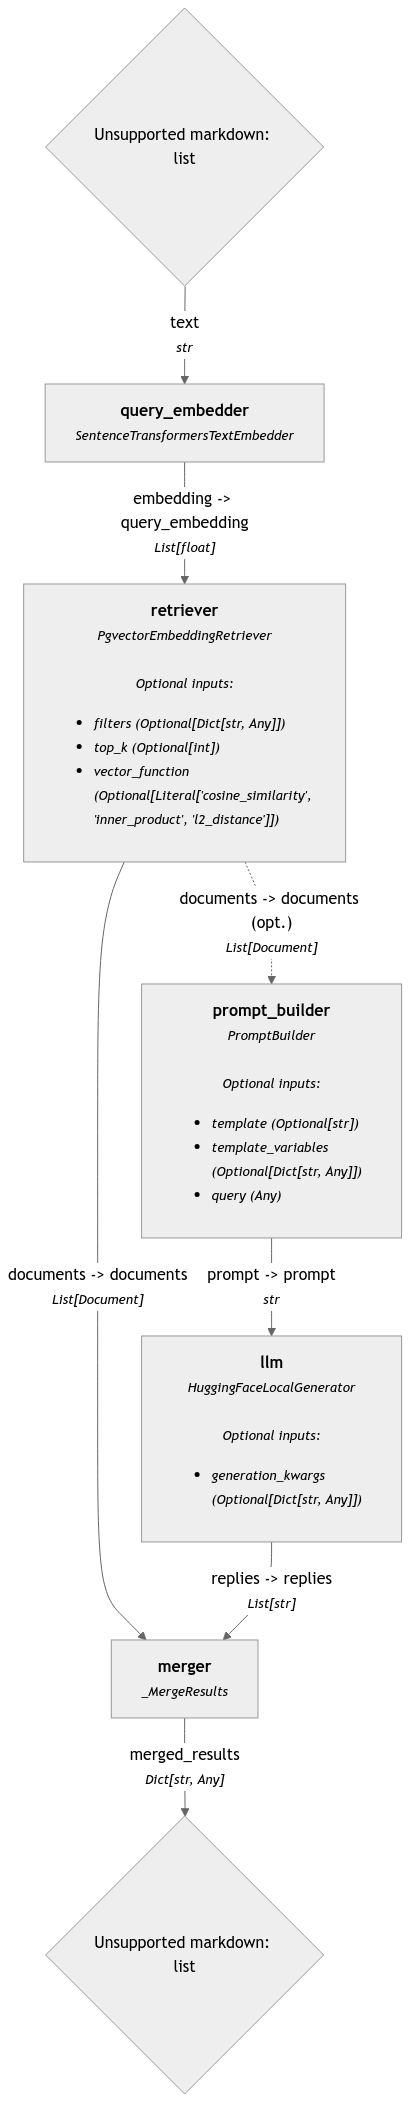
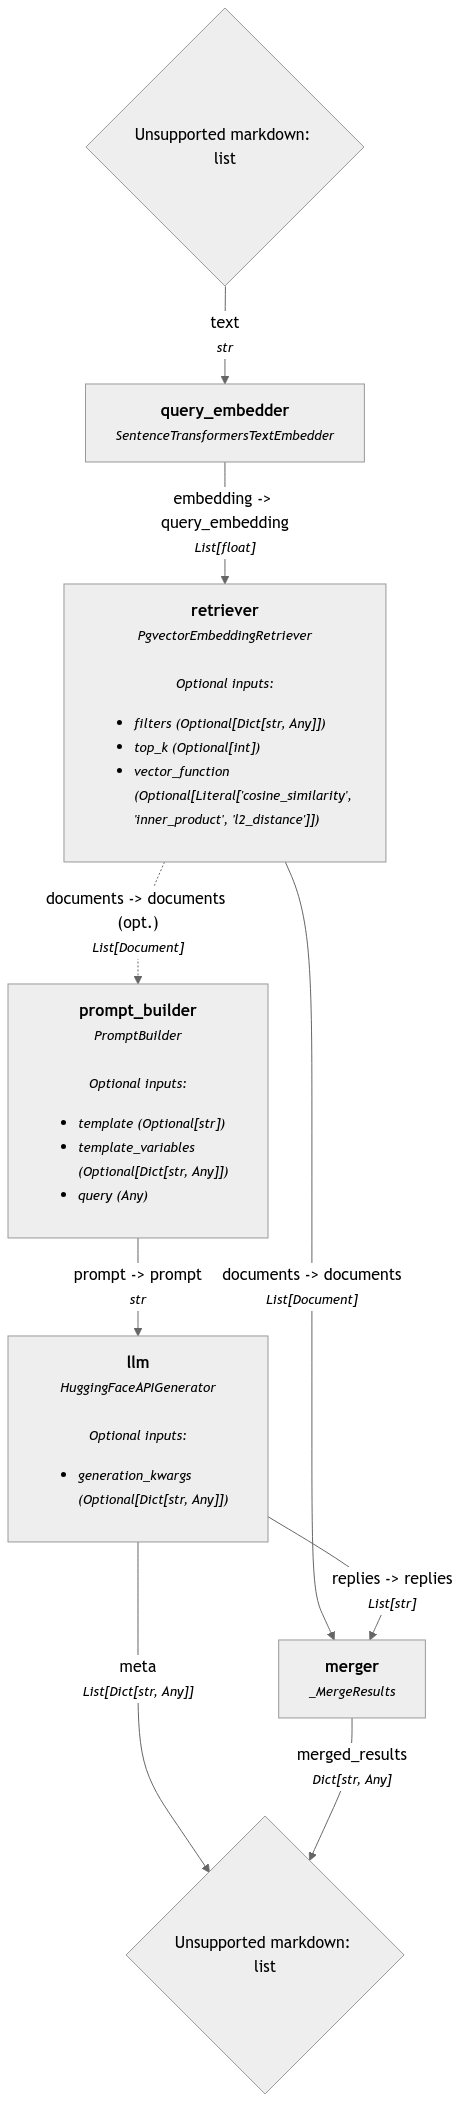
Got streaming callbacks working.

diff --git a/generator_model.py b/generator_model.py
@@ -1,6 +1,7 @@
 # Hugging Face and Pytorch imports
 import torch
 import huggingface_hub as hf_hub
+from haystack.dataclasses import StreamingChunk
 from transformers import AutoConfig
 # Haystack imports
 from haystack.components.generators import HuggingFaceLocalGenerator
@@ -9,7 +10,7 @@ from haystack.components.generators import HuggingFaceAPIGenerator
 from haystack.utils import ComponentDevice, Device
 from haystack.utils.auth import Secret
 # Other imports
-from typing import Optional, Union
+from typing import Optional, Union, Callable
 from abc import ABC, abstractmethod
 
 
@@ -143,6 +144,7 @@ class HuggingFaceModel(GeneratorModel, ABC):
                  max_new_tokens: int = 500,
                  temperature: float = 0.6,
                  password: Optional[str] = None,
+                 streaming_callback: Optional[Callable[[StreamingChunk], None]] = None,
                  verbose: bool = False) -> None:
         """
         Initialize the HuggingFaceModel instance.
@@ -159,6 +161,7 @@ class HuggingFaceModel(GeneratorModel, ABC):
         self._max_new_tokens: int = max_new_tokens
         self._temperature: float = temperature
         self._model_name: str = model_name
+        self._streaming_callback: Optional[Callable[[StreamingChunk], None]] = streaming_callback
 
         if password is not None:
             hf_hub.login(password, add_to_git_credential=False)
@@ -188,7 +191,7 @@ class HuggingFaceModel(GeneratorModel, ABC):
     @property
     def embedding_dimensions(self) -> Optional[int]:
         # TODO: Need to test if this really gives us the embedder dims.
-        #  Works correctly for SentenceTransformersTextEmbedder
+        #  Does NOT work correctly for SentenceTransformersTextEmbedder. There should be a better approach.
         try:
             config: AutoConfig = AutoConfig.from_pretrained(self._model_name)
         except Exception as e:
@@ -197,8 +200,22 @@ class HuggingFaceModel(GeneratorModel, ABC):
         embedding_dims: Optional[int] = getattr(config, 'hidden_size', None)
         return embedding_dims
 
+    @property
+    def streaming_callback(self) -> Optional[Callable[[StreamingChunk], None]]:
+        return self._streaming_callback
+
+    @streaming_callback.setter
+    def streaming_callback(self, value: callable(StreamingChunk)) -> None:
+        self._streaming_callback = value
+
     def generate(self, prompt: str) -> str:
         return self._model.run(prompt)
+
+    def _default_streaming_callback_func(self, chunk: StreamingChunk):
+        # This is a callback function that is used to stream the output of the generator.
+        # If you are not using a streaming generator, you can ignore this method.
+        if self._streaming_callback is not None:
+            self._streaming_callback(chunk)
 
 
 class HuggingFaceLocalModel(HuggingFaceModel):
@@ -213,6 +230,7 @@ class HuggingFaceLocalModel(HuggingFaceModel):
                  temperature: float = 0.6,
                  password: Optional[str] = None,
                  task: str = "text-generation",
+                 streaming_callback: Optional[Callable[[StreamingChunk], None]] = None,
                  verbose: bool = True) -> None:
         """
         Initialize the HuggingFaceLocalModel instance.
@@ -226,7 +244,7 @@ class HuggingFaceLocalModel(HuggingFaceModel):
             verbose (bool, optional): Whether to print verbose output. Defaults to True.
         """
         super().__init__(verbose=verbose, model_name=model_name, max_new_tokens=max_new_tokens,
-                         temperature=temperature, password=password)
+                         temperature=temperature, password=password, streaming_callback=streaming_callback)
 
         # Local model related variables
         self._task: str = task
@@ -239,6 +257,7 @@ class HuggingFaceLocalModel(HuggingFaceModel):
             model=self._model_name,
             task="text-generation",
             device=self._component_device,
+            streaming_callback=self._default_streaming_callback_func,
             generation_kwargs={
                 "max_new_tokens": self._max_new_tokens,
                 "temperature": self._temperature,
@@ -265,6 +284,7 @@ class HuggingFaceAPIModel(HuggingFaceModel):
                  max_new_tokens: int = 500,
                  password: Optional[str] = None,
                  temperature: float = 0.6,
+                 streaming_callback: Optional[Callable[[StreamingChunk], None]] = None,
                  verbose: bool = True) -> None:
         """
         Initialize the GeneratorModel instance.
@@ -273,7 +293,7 @@ class HuggingFaceAPIModel(HuggingFaceModel):
             model_name (str): Name of the language model to use.
         """
         super().__init__(verbose=verbose, model_name=model_name, max_new_tokens=max_new_tokens,
-                         temperature=temperature, password=password)
+                         temperature=temperature, password=password, streaming_callback=streaming_callback)
 
         self._max_new_tokens: int = max_new_tokens
         self._temperature: float = temperature
@@ -285,6 +305,7 @@ class HuggingFaceAPIModel(HuggingFaceModel):
                 "model": self._model_name,
             },
             token=Secret.from_token(password),
+            streaming_callback=self._default_streaming_callback_func,
             generation_kwargs={
                 "max_new_tokens": self._max_new_tokens,
                 "temperature": self._temperature,

diff --git a/rag_pipeline.py b/rag_pipeline.py
@@ -5,6 +5,7 @@ from haystack import Pipeline, Document, component
 from haystack.components.embedders import SentenceTransformersDocumentEmbedder, SentenceTransformersTextEmbedder
 from haystack.components.builders import PromptBuilder
 from haystack.components.generators import HuggingFaceLocalGenerator
+from haystack.dataclasses import StreamingChunk
 from haystack_integrations.components.generators.google_ai import GoogleAIGeminiGenerator
 from haystack_integrations.components.retrievers.pgvector import PgvectorEmbeddingRetriever
 from haystack_integrations.document_stores.pgvector import PgvectorDocumentStore
@@ -48,6 +49,7 @@ class RagPipeline:
                  postgres_db_name: str = 'postgres',
                  generator_model: Union[gen.GeneratorModel, HuggingFaceLocalGenerator, GoogleAIGeminiGenerator] = None,
                  embedder_model_name: Optional[str] = None,
+                 use_streaming: bool = False
                  ) -> None:
         """
         Initialize the HaystackPgvector instance.
@@ -63,11 +65,15 @@ class RagPipeline:
                 Language model to use for text generation.
             embedder_model_name (Optional[str]): Name of the embedding model to use.
         """
+        # streaming_callback function to print to screen
+        def streaming_callback(chunk: StreamingChunk) -> None:
+            print(chunk.content, end='')
 
         # Instance variables
         self._table_name: str = table_name
         self._sentence_embedder: Optional[SentenceTransformersDocumentEmbedder] = None
         self._embedder_model_name: Optional[str] = embedder_model_name
+        self._use_streaming: bool = use_streaming
 
         # GPU or CPU
         self._has_cuda: bool = torch.cuda.is_available()
@@ -89,6 +95,11 @@ class RagPipeline:
             raise ValueError("Generator model must be provided")
         self._generator_model: Optional[Union[gen.GeneratorModel, HuggingFaceLocalGenerator, GoogleAIGeminiGenerator]]
         self._generator_model = generator_model
+        # Handle callbacks for streaming if applicable
+        if (self._use_streaming
+                and isinstance(self._generator_model, gen.GeneratorModel)
+                and hasattr(self._generator_model, 'streaming_callback')):
+            self._generator_model.streaming_callback = streaming_callback
 
         # Default prompt template
         # noinspection SpellCheckingInspection
@@ -193,13 +204,16 @@ class RagPipeline:
             print("-" * 50)
 
         # Print generated response
-        # noinspection SpellCheckingInspection
-        print("\nLLM's Response:")
-        if merged_results["replies"]:
-            answer: str = merged_results["replies"][0]
-            print(answer)
-        else:
-            print("No response was generated.")
+        if not (self._use_streaming
+                and hasattr(self._generator_model, 'streaming_callback')
+                and self._generator_model.streaming_callback is not None):
+            # noinspection SpellCheckingInspection
+            print("\nLLM's Response:")
+            if merged_results["replies"]:
+                answer: str = merged_results["replies"][0]
+                print(answer)
+            else:
+                print("No response was generated.")
 
     @component
     class _MergeResults:
@@ -273,6 +287,7 @@ def main() -> None:
                                              postgres_host='localhost',
                                              postgres_port=5432,
                                              postgres_db_name='postgres',
+                                             use_streaming=True,
                                              embedder_model_name="Alibaba-NLP/gte-large-en-v1.5")
 
     # Draw images of the pipelines
